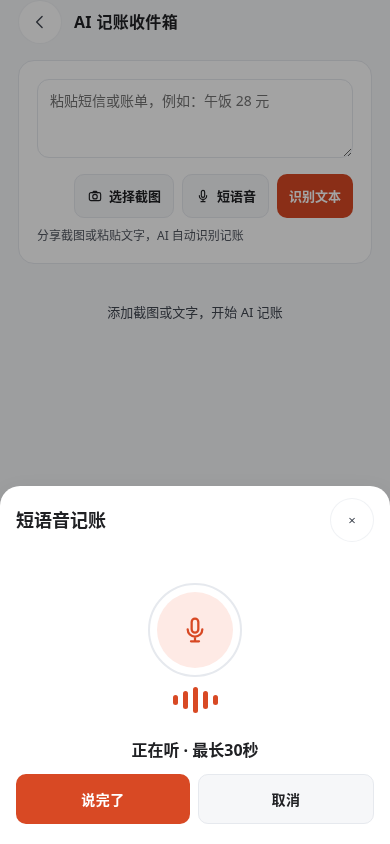
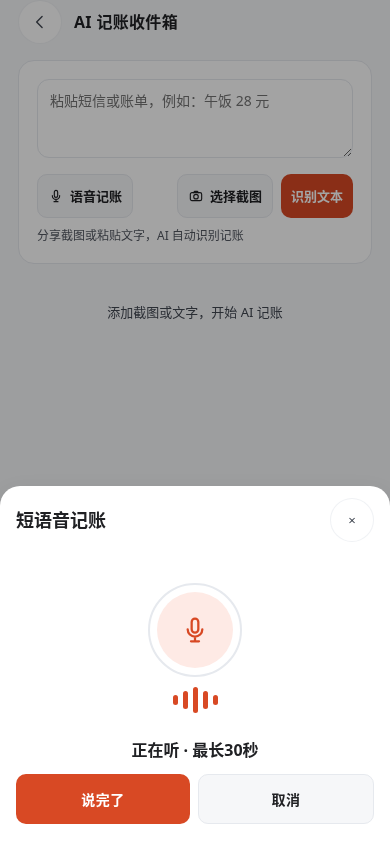
style(收件箱): 左对齐语音入口并更名为语音记账

diff --git a/app/src/features/settings/settingsManual.ts b/app/src/features/settings/settingsManual.ts
@@ -32,7 +32,7 @@ export function settingsManualHtml(): string {
       ${section('organize', `<ul><li><b>分类管理：</b>支出支持大类与小类，收入为单级；名称旁显示全部未删除账单笔数（含退款），大类合计包含自身与小类。点击编辑，拖动排序。点「合并分类」，依次选择原分类和保留的目标分类；确认前核对完整路径及账单数量。合并会同步迁移回收站、模板、周期账等引用并移除原分类，金额和余额不变。小类只能合并到小类，大类合并会迁移其小类；同名小类不自动合并。合并前创建的快照可在备份页 7 天内整体撤销，会回滚快照之后的其他修改。</li><li><b>标签与商家：</b>为账单补充筛选维度，可查看排行和关联明细。</li><li><b>速记模板：</b>保存常用分类、金额等内容，使用时仍核对本次账户和日期。</li><li><b>周期账：</b>创建固定收支或转账规则，核对金额、账户、频率与下次日期；暂停不再需要的规则，避免重复记账。</li><li><b>应收应付：</b>按账户查看待收、待还与往来明细；还款或收款使用借贷操作。</li></ul>`)}
       ${section('life', `<p>「拾光」记录日记、照片与习惯打卡，按月份回看。账单详情中点「给这一笔留下点记忆」，新记录会带入日期、分类、金额、账户及已有商家和备注，可直接修改补充；保存后自动关联原账单，不会重复记账。重新打开会保留已写内容。</p><p>「和拾光聊聊」确认发送后，返回其他页面不会停止回复，再次进入可继续查看；需要中止时点「停止」。若关闭应用、刷新或网络中断，会保留已保存的回复片段，点「重试」重新发送本轮，不会自动重发。</p><p>「拾光周刊」整理某周生活记录；AI 对话和生成需先配置接口，核对发送范围后再确认。AI 文字不是记账凭证，账单仍以已保存流水为准。</p>`)}
       ${section('backup', `<ol><li>进入「我的 → 备份与恢复」，点「立即备份」，可选口令加密，再生成并保存 .skbak 文件。</li><li>恢复时点「选择备份文件」，核对时点与数量后确认。恢复会全量替换当前数据；操作前自动创建的快照保留 7 天，可在本页撤销。</li><li>换手机或卸载前，把备份存到应用之外。加密口令无法找回；云端与 AI 凭证不随普通备份迁移，需要重新配置。</li></ol><p>备份摘要分别显示有效账单、回收站账单、账户和生活记录，完整备份包含回收站数据。本机副本及云端的详细说明点开后查看。本机保留最近 10 份备份副本，合计最多 100 MB；更早的备份需选择文件。Excel 用于按月查看与交换账单，不能完整恢复退款关联，完整迁移请用 .skbak。</p><p>挖财、微信和支付宝账单按导入页选择来源，先检查预览与账户映射，再确认导入。云备份支持 WebDAV、S3 兼容服务；Android 还支持邮件备份，测试连接和上传由你主动发起。</p>${pictures([{ file: 'backup', title: '备份与恢复', caption: '先把 .skbak 文件保存到应用之外。恢复前查看备份时间和记录数量。' }])}`)}
-      ${section('ai', `<p><b>文字或截图：</b>在设置中心配置 AI 接口与模型，再从首页「AI 记账」输入或导入。设置中的「自动入账阈值」决定普通 AI 结果是否直接入账：达到阈值且分类、账户齐全时可直接入账；其他结果到「我的 → AI 记账收件箱」核对。</p><p><b>首页按住说话：</b>长按底部「+」，先显示「正在准备语音」，看到「正在听」后说话。滑到「取消」或「编辑文字」再松手执行对应操作，移回下方可继续说，松开发送后自动识别。「编辑文字」无论是否识别到文字，都直接打开编辑框，不调用文字 AI；修改后点发送才识别，框内右上角「退出」可关闭。等待转写时也可点编辑；草稿准备好后才切换，准备期间仍可取消或编辑。识别清楚时直接进入可修改的记账草稿，仍需手动保存；信息不足时可编辑文字后重发，或点「重新录音」再按住下方按钮说话。在发送区松开时，空语音会回到首页，每次最长 30 秒。</p><p><b>其他 Android 短语音入口：</b>首页「AI 记账」或「我的 → AI 记账收件箱」点「短语音」→「开始说话」→「说完了」→ 核对文字 →「发送并生成草稿」。每次最长 30 秒，语音结果始终需要人工确认。转账、借贷、还款、退款与报销使用手动记账。</p><p>点「加入收件箱待确认」只保存到本机待确认队列，可修改后再确认入账。</p>${pictures([
+      ${section('ai', `<p><b>文字或截图：</b>在设置中心配置 AI 接口与模型，再从首页「AI 记账」输入或导入。设置中的「自动入账阈值」决定普通 AI 结果是否直接入账：达到阈值且分类、账户齐全时可直接入账；其他结果到「我的 → AI 记账收件箱」核对。</p><p><b>首页按住说话：</b>长按底部「+」，先显示「正在准备语音」，看到「正在听」后说话。滑到「取消」或「编辑文字」再松手执行对应操作，移回下方可继续说，松开发送后自动识别。「编辑文字」无论是否识别到文字，都直接打开编辑框，不调用文字 AI；修改后点发送才识别，框内右上角「退出」可关闭。等待转写时也可点编辑；草稿准备好后才切换，准备期间仍可取消或编辑。识别清楚时直接进入可修改的记账草稿，仍需手动保存；信息不足时可编辑文字后重发，或点「重新录音」再按住下方按钮说话。在发送区松开时，空语音会回到首页，每次最长 30 秒。</p><p><b>其他 Android 短语音入口：</b>首页「AI 记账」或「我的 → AI 记账收件箱」点「语音记账」→「开始说话」→「说完了」→ 核对文字 →「发送并生成草稿」。每次最长 30 秒，语音结果始终需要人工确认。转账、借贷、还款、退款与报销使用手动记账。</p><p>点「加入收件箱待确认」只保存到本机待确认队列，可修改后再确认入账。</p>${pictures([
         { file: 'voice-start', title: '开始说话', caption: '主动点「开始说话」才录音，也可以直接输入文字。' },
         { file: 'voice-listening', title: '结束录音', caption: '看到「正在听」后说话，点「说完了」结束。' },
         { file: 'voice-review', title: '核对并发送', caption: '修改转写文字，再点「发送并生成草稿」。核对草稿后决定如何入账。' },

diff --git a/app/src/features/ai-inbox/aiInbox.ts b/app/src/features/ai-inbox/aiInbox.ts
@@ -519,8 +519,8 @@ async function refresh(): Promise<void> {
     <section class="card ai-input" aria-label="添加素材">
       <textarea id="ai-text" rows="3" placeholder="粘贴短信或账单，例如：午饭 28 元"></textarea>
       <div class="ai-actions">
+        <button class="btn ghost" data-act="short-voice">${iconHtml('ic-mic', 16)} 语音记账</button>
         <button class="btn ghost" data-act="pick-img">${iconHtml('ic-camera', 16)} 选择截图</button>
-        <button class="btn ghost" data-act="short-voice">${iconHtml('ic-mic', 16)} 短语音</button>
         <button class="btn primary" data-act="recognize-text">识别文本</button>
       </div>
       <input type="file" id="ai-file" accept="image/*" multiple hidden>

diff --git a/app/tests/settings-manual.test.ts b/app/tests/settings-manual.test.ts
@@ -28,7 +28,7 @@ it('opens only a local sheet with an accessible close control', () => {
 it('documents the remaining voice entries and manual inbox approval', () => {
   const html = settingsManualHtml();
   expect(html).toContain('首页按住说话');
-  expect(html).toContain('首页「AI 记账」或「我的 → AI 记账收件箱」点「短语音」');
+  expect(html).toContain('首页「AI 记账」或「我的 → AI 记账收件箱」点「语音记账」');
   expect(html).not.toContain('记账页点麦克风');
   expect(html).not.toContain('填入当前草稿');
   expect(html).toContain('「加入收件箱待确认」只保存到本机待确认队列，可修改后再确认入账');

diff --git a/app/src/features/ai-inbox/aiInbox.css b/app/src/features/ai-inbox/aiInbox.css
@@ -8,6 +8,8 @@
 .ai-input textarea{width:100%;border:1px solid var(--border);border-radius:calc(var(--r) - 4px);background:var(--surface);padding:10px 12px;font-size:14px;font-family:var(--font-body);color:var(--fg);resize:vertical;min-height:64px}
 .ai-input textarea:focus{outline:none;border-color:var(--primary)}
 .ai-input .ai-actions{margin-top:10px}
+.ai-input .ai-actions .btn{padding-inline:10px}
+.ai-input [data-act="short-voice"]{margin-right:auto}
 .ai-input .tiny{margin-top:8px}
 
 /* 素材 / 待确认卡片 */

diff --git a/docs/PROJECT_STATUS.md b/docs/PROJECT_STATUS.md
@@ -1,5 +1,13 @@
 # 拾光项目状态与交接
 
+## AI收件箱语音入口左对齐与命名预览（2026-10-20）
+
+素材卡中的「短语音」改名为「语音记账」，放到按钮行首项，与上方文本框左边缘对齐；「选择截图」「识别文本」保留在右侧。略微收紧该行按钮左右内边距，常规窄屏保持同行，大字体下自然换行且入口仍左对齐；不改其他待确认卡的按钮排列。同步手册入口名称与三张受影响的语音操作原始截图及来源哈希。
+
+核对点击后的实际界面：该入口仍调用原短语音浮层（开始说话／说完了／核对文字），尚未与首页长按的圆弧滑选蒙层统一；本次未改变录音交互、识别授权、收件箱待确认及人工入账规则。真实浏览器采用合成原生桥，六组尺寸／主题确认名称、左对齐、点击后旧界面及返回焦点，并通过现有语音主流程／交互回归与手册截图采集；覆盖360／390／430px、桌面、浅深色与130%字体，未使用真实麦克风或语音服务。样例位于 `deliverables/inbox-voice-entry/`，后续统一新版界面为独立改动。
+
+本轮版本仍为1.11.23，仅正常同步preview/orbstack；生产构建、手册哈希／离线检查和敏感信息扫描随交付核验。精确远端提交与对应Preview checks状态以本次交付为准，手机及OrbStack待用户反馈。修改前完整快照：`.tmp/backups/inbox-voice-entry/tracked-before.tar`。
+
 ## 圆形关闭与淡外圈按钮预览（2026-10-20）
 
 按用户最新反馈撤回记账草稿的60px宽胶囊，改为与页面通用圆形按钮一致的44×44px关闭入口，保留细线×、无障碍名称与原有退出行为。通用圆形图标按钮的外圈改为原中性边框颜色60%透明度：首页设置／搜索、账户搜索及弹层关闭等同类按钮统一生效，输入框和卡片边框不变。保留此前账户搜索、底部Tab顺序及语音、人工保存规则。手册改为圆形按钮说明，并同步更新受影响的原始截图和来源哈希。
